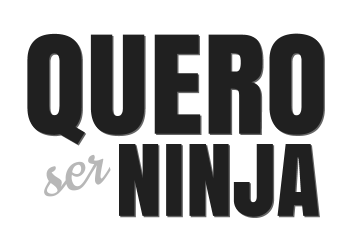
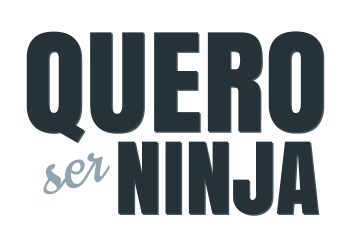
Change colors

diff --git a/index.html b/index.html
@@ -7,7 +7,7 @@
     <style>
     *, html, body { margin: 0; padding: 0; }
     html, body { width: 100%; height: 100%; }
-    body { background: #434343; }
+    body { background: #37474F; }
     .want-to-be-ninja { bottom: 0; left: 0; margin: auto; position: absolute; right: 0; top: 0; }
     .ninja { bottom: 0; position: absolute; right: 0; }
     </style>
